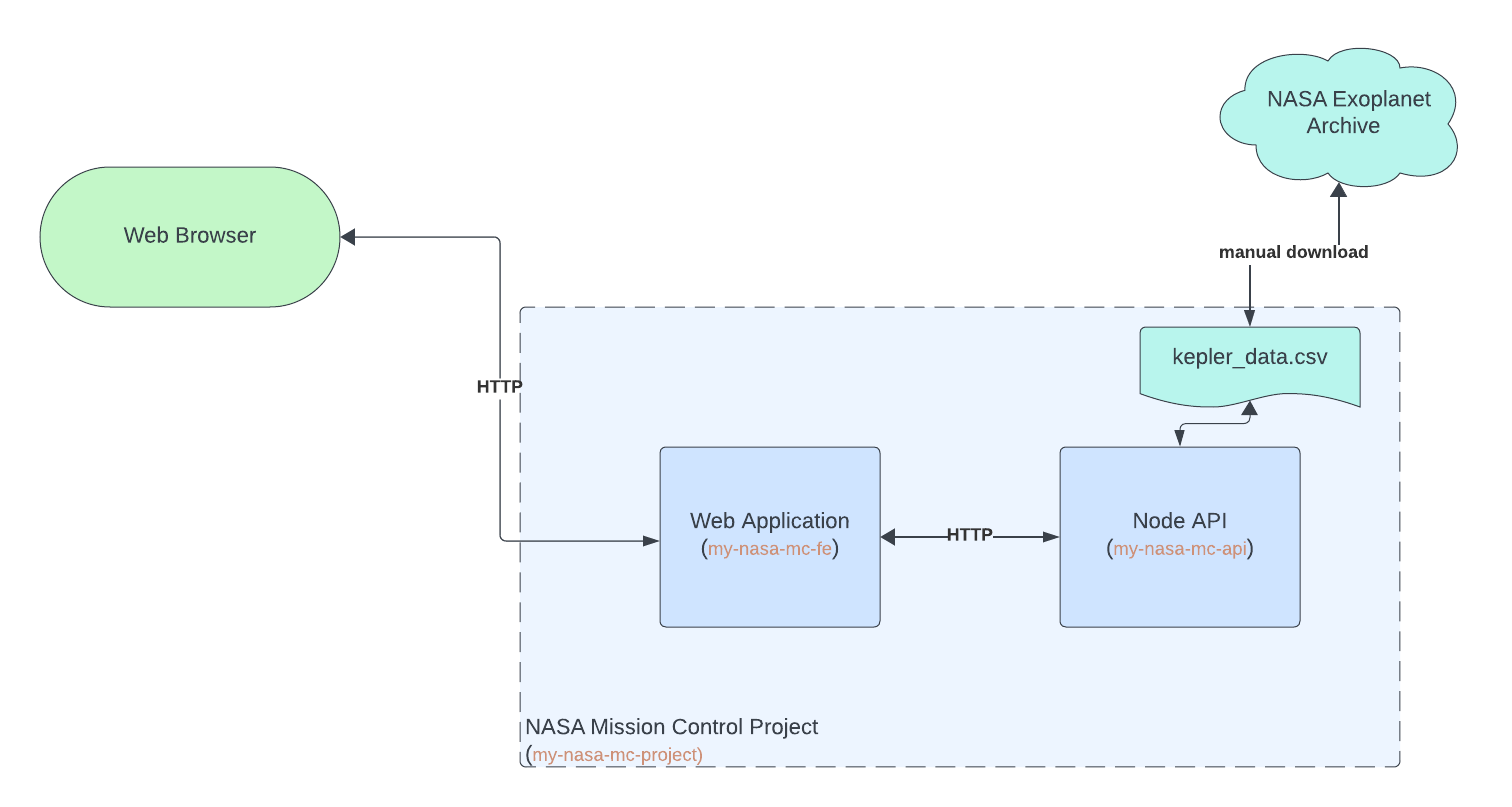
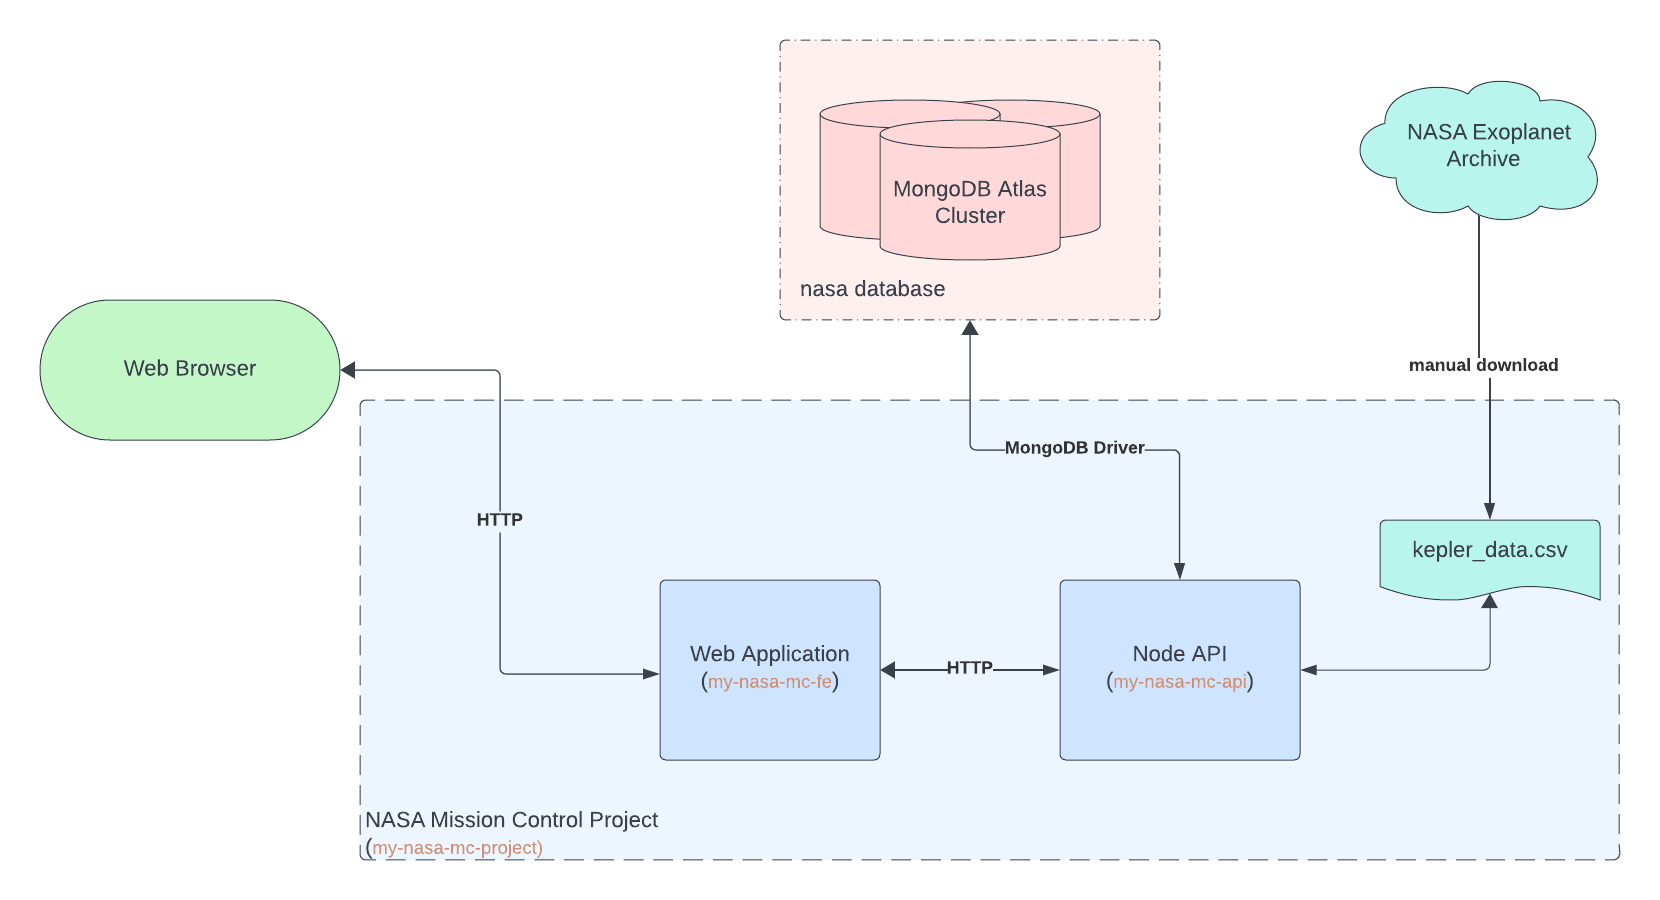
added pagination feature

diff --git a/server/src/models/launches.model.js b/server/src/models/launches.model.js
@@ -1,45 +1,101 @@
 const launchesDatabase = require('./launches.mongo');
 const planets = require('./planets.mongo');
+const axios = require('axios');
+
 const DEFAULT_FLIGHT_NUMBER = 100;
+const SPACEX_API_URL="https://api.spacexdata.com/v4/launches/query"
 
-// const initialLaunch = {
-//     flightNumber: 100,
-//     mission: "Kepler Exploration X",
-//     rocket: "Explorer IS1",
-//     launchDate: new Date('Dec 27, 2030'),
-//     target: 'Kepler-452 b',
-//     customers: ['NASA', 'NOAA'],
-//     upcoming: true,
-//     success: true
-// }
 
-const saveLaunch = async (launch) => {
-    const planet = await planets.findOne({
-        keplerName: launch.target
+const populateLaunches = async () => {
+    console.log("Downloading data from SpaceX Api...");
+    const response = await axios.post(SPACEX_API_URL, {
+        query: {},
+        options: {
+            pagination: false,
+            populate: [
+                {
+                    path: 'rocket',
+                    select: {
+                        name: 1
+                    }
+                },
+                {
+                    path: 'payloads',
+                    select: {
+                        customers: 1
+                    }
+                }
+            ]
+        }
     });
-    if (planet) {
-        await launchesDatabase.findOneAndUpdate({
-            flightNumber: launch.flightNumber
-        }, launch, {
-            upsert: true
-        });
-    } else {
-        throw new Error('No matching planet is found');
+    if (response.status!=200) {
+        throw new Error('Problem downloading SpaceX data');
+    }
+    const launchDocs = response.data.docs;
+    for (const launchDoc of launchDocs) {
+        const launch = {
+            flightNumber: launchDoc.flight_number,
+            rocket: launchDoc.rocket.name,
+            mission: launchDoc.name,
+            launchDate: launchDoc.date_local,
+            target: "not applicable",
+            upcoming: launchDoc.upcoming,
+            success: launchDoc.success,
+            customers: launchDoc.payloads.flatMap((payload) => {
+                return payload.customers
+            })
+        }
+        await saveLaunch(launch);
     }
 }
-// saveLaunch(initialLaunch);
 
-const getAllLaunches = async () => {
-    return await launchesDatabase.find({}, {
-        "_id": 0,
-        "__v": 0,
+const loadLaunchesData = async () => {
+    // check if SpaceX data already exists in Mongo db
+    const exists = await findLaunch({
+        flightNumber: 1,
+        mission: "FalconSat",
+        rocket: "Falcon 1"
     });
+    if (exists) {
+        console.log("No need to download the SpaceX data");
+    } else {
+        await populateLaunches();
+    }
+}
+// our data vs spacex data
+// flightNumber: flight_number
+// rocket: rocket.name
+// mission: name
+// launchDate: date_local
+// target: not applicable
+// upcoming: upcoming
+// success: success
+// customers: payloads[].customers[0]
+
+const saveLaunch = async (launch) => {
+    await launchesDatabase.findOneAndUpdate({
+        flightNumber: launch.flightNumber
+    }, launch, {
+        upsert: true
+    });
+}
+
+const getAllLaunches = async (skip, limit) => {
+    return await launchesDatabase
+        .find({}, { "_id": 0, "__v": 0 })
+        .sort({ flightNumber: 1 })
+        .skip(skip)
+        .limit(limit)
+}
+
+const findLaunch = async (filter) => {
+    return await launchesDatabase.findOne(filter);
 }
 
 const existsLaunchWithId = async (launchId) => {
-    return await launchesDatabase.findOne({
+    return await findLaunch({
         flightNumber: launchId
-    });
+    })
 }
 
 const abortLaunchWithId = async (launchId) => {
@@ -70,7 +126,15 @@ const scheduleNewLaunch = async (launch) => {
         upcoming: true,
         success: true,
     })
-    await saveLaunch(newLaunch);
+    const planet = await planets.findOne({
+        keplerName: newLaunch.target
+    });
+    if (planet) {
+        await saveLaunch(newLaunch);
+    } else {
+        throw new Error('No matching planet is found');
+    }
+
 }
 
 module.exports = {
@@ -78,4 +142,5 @@ module.exports = {
     scheduleNewLaunch,
     existsLaunchWithId,
     abortLaunchWithId,
+    loadLaunchesData,
 }

diff --git a/server/src/server.js b/server/src/server.js
@@ -1,7 +1,8 @@
 const http = require('http');
 const app = require('./app');
-const { loadPlanetsData } = require('./models/planets.model');
 const { mongoConnect } = require('./utils/mongo');
+const { loadPlanetsData } = require('./models/planets.model');
+const { loadLaunchesData } = require('./models/launches.model');
 
 const PORT = process.env.PORT || 3001;
 const server = http.createServer(app);
@@ -9,6 +10,7 @@ const server = http.createServer(app);
 async function startServer() {
     await mongoConnect();
     await loadPlanetsData();
+    await loadLaunchesData();
     server.listen(PORT, () => {
         console.log('Listening the port: ', PORT);
     })

diff --git a/server/src/routes/launches/launches.controller.js b/server/src/routes/launches/launches.controller.js
@@ -5,9 +5,12 @@ const {
     existsLaunchWithId,
     abortLaunchWithId 
 } = require('../../models/launches.model');
+const { getPagination } = require('../../utils/query');
+
 
 const httpGetAllLaunches = async (req, res) => {
-    return res.status(200).json(await getAllLaunches());
+    const { skip, limit } = getPagination(req.query);
+    return res.status(200).json(await getAllLaunches(skip, limit));
 }
 
 const httpAddNewLaunch = async (req, res) => {

diff --git a/client/src/pages/Launch.js b/client/src/pages/Launch.js
@@ -5,7 +5,7 @@ import Clickable from "../components/Clickable";
 const Launch = props => {
   const selectorBody = useMemo(() => {
     return props.planets?.map(planet => 
-      <option value={planet.kepler_name} key={planet.kepler_name}>{planet.kepler_name}</option>
+      <option value={planet.keplerName} key={planet.keplerName}>{planet.keplerName}</option>
     );
   }, [props.planets]);
 

diff --git a/server/src/utils/query.js b/server/src/utils/query.js
@@ -1,0 +1,16 @@
+const DEFAULT_PAGE_LIMIT = 0;
+const DEFAULT_PAGE_NUMBER = 1;
+
+const getPagination = (query) => {
+    const page = Math.abs(query.page) || DEFAULT_PAGE_NUMBER;
+    const limit = Math.abs(query.limit) || DEFAULT_PAGE_LIMIT;
+    const skip = (page - 1) * limit;
+    return {
+        skip,
+        limit
+    }
+}
+
+module.exports = {
+    getPagination
+}

diff --git a/client/src/hooks/requests.js b/client/src/hooks/requests.js
@@ -1,4 +1,4 @@
-const API_URL = "http://localhost:3001";
+const API_URL = "http://localhost:3001/v1";
 
 async function httpGetPlanets() {
   const response = await fetch(`${API_URL}/planets`);

diff --git a/server/src/models/launches.mongo.js b/server/src/models/launches.mongo.js
@@ -19,7 +19,6 @@ const launchSchema = new mongoose.Schema({
     },
     target: {
         type: String,
-        required: true,
     },
     customers: {
         type: [ String ],

diff --git a/client/README.md b/client/README.md
@@ -1,70 +1,4 @@
-# Getting Started with Create React App
+## This is NASA Mission Control Front-End App based on React
 
+## Getting Started with Create React App
 This project was bootstrapped with [Create React App](https://github.com/facebook/create-react-app).
-
-## Available Scripts
-
-In the project directory, you can run:
-
-### `yarn start`
-
-Runs the app in the development mode.\
-Open [http://localhost:3000](http://localhost:3000) to view it in the browser.
-
-The page will reload if you make edits.\
-You will also see any lint errors in the console.
-
-### `yarn test`
-
-Launches the test runner in the interactive watch mode.\
-See the section about [running tests](https://facebook.github.io/create-react-app/docs/running-tests) for more information.
-
-### `yarn build`
-
-Builds the app for production to the `build` folder.\
-It correctly bundles React in production mode and optimizes the build for the best performance.
-
-The build is minified and the filenames include the hashes.\
-Your app is ready to be deployed!
-
-See the section about [deployment](https://facebook.github.io/create-react-app/docs/deployment) for more information.
-
-### `yarn eject`
-
-**Note: this is a one-way operation. Once you `eject`, you can’t go back!**
-
-If you aren’t satisfied with the build tool and configuration choices, you can `eject` at any time. This command will remove the single build dependency from your project.
-
-Instead, it will copy all the configuration files and the transitive dependencies (webpack, Babel, ESLint, etc) right into your project so you have full control over them. All of the commands except `eject` will still work, but they will point to the copied scripts so you can tweak them. At this point you’re on your own.
-
-You don’t have to ever use `eject`. The curated feature set is suitable for small and middle deployments, and you shouldn’t feel obligated to use this feature. However we understand that this tool wouldn’t be useful if you couldn’t customize it when you are ready for it.
-
-## Learn More
-
-You can learn more in the [Create React App documentation](https://facebook.github.io/create-react-app/docs/getting-started).
-
-To learn React, check out the [React documentation](https://reactjs.org/).
-
-### Code Splitting
-
-This section has moved here: [https://facebook.github.io/create-react-app/docs/code-splitting](https://facebook.github.io/create-react-app/docs/code-splitting)
-
-### Analyzing the Bundle Size
-
-This section has moved here: [https://facebook.github.io/create-react-app/docs/analyzing-the-bundle-size](https://facebook.github.io/create-react-app/docs/analyzing-the-bundle-size)
-
-### Making a Progressive Web App
-
-This section has moved here: [https://facebook.github.io/create-react-app/docs/making-a-progressive-web-app](https://facebook.github.io/create-react-app/docs/making-a-progressive-web-app)
-
-### Advanced Configuration
-
-This section has moved here: [https://facebook.github.io/create-react-app/docs/advanced-configuration](https://facebook.github.io/create-react-app/docs/advanced-configuration)
-
-### Deployment
-
-This section has moved here: [https://facebook.github.io/create-react-app/docs/deployment](https://facebook.github.io/create-react-app/docs/deployment)
-
-### `yarn build` fails to minify
-
-This section has moved here: [https://facebook.github.io/create-react-app/docs/troubleshooting#npm-run-build-fails-to-minify](https://facebook.github.io/create-react-app/docs/troubleshooting#npm-run-build-fails-to-minify)

diff --git a/README.md b/README.md
@@ -1,2 +1,14 @@
-This is full stack application based on **Node.js** and **React**.
-See [architecture diagram](./diagram.png)
+# "NASA" Mission Control Application (with SpaceX launch data)
+This is not an official NASA application and is not affiliated with NASA or SpaceX in any way. For educational purposes only.
+
+## This is full stack application based on **Node.js** and **React**.
+
+1. See [architecture diagram](./diagram.png)
+
+2. To install packages for front-end and back-end parts:
+    - `npm install`
+
+3. To deploy the app:
+    - `npm deploy`
+
+4. The "SpaceX" API received from [here](https://github.com/r-spacex/SpaceX-API)
